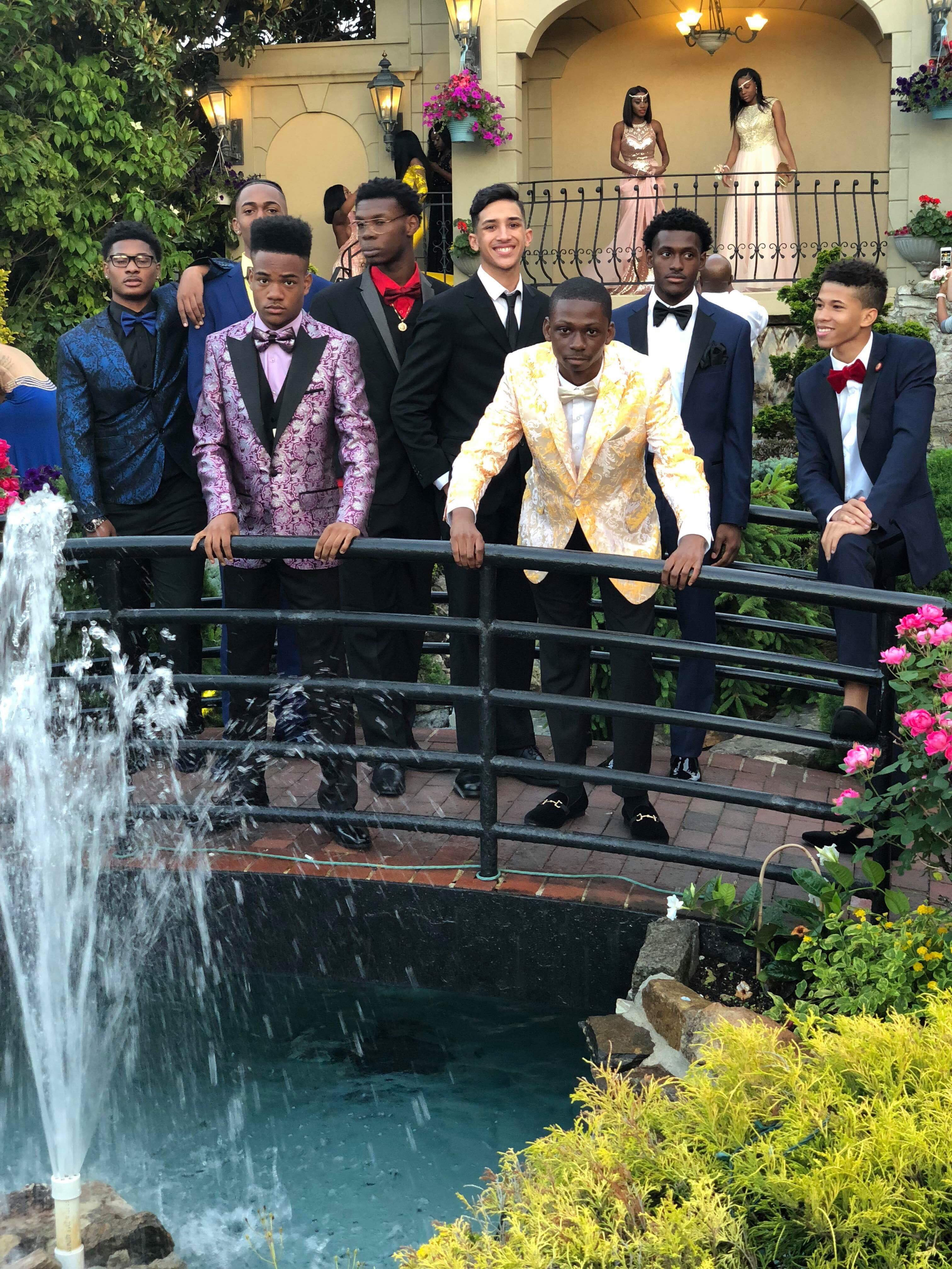
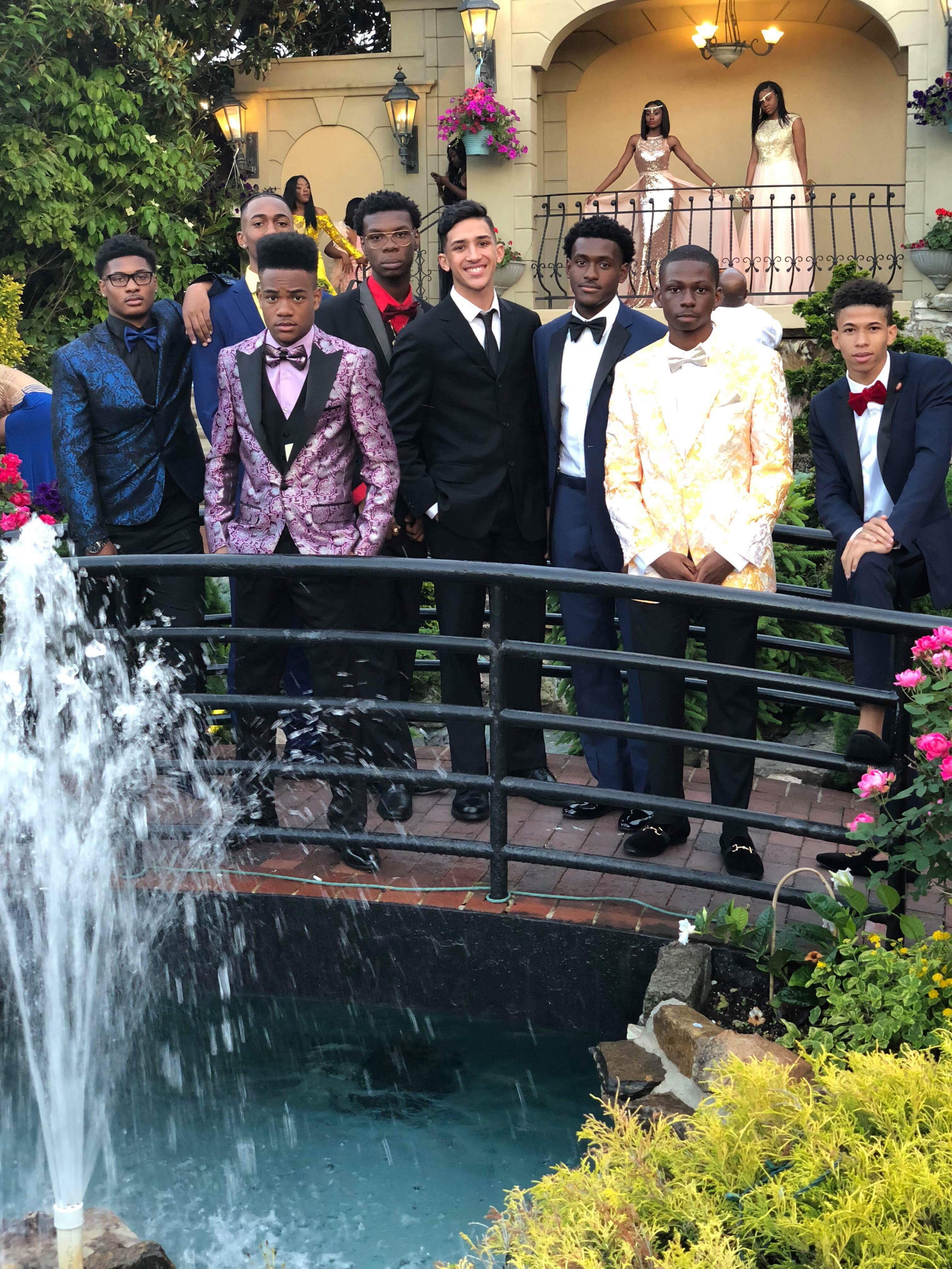
changed couples pages to pairs page, added second page to pairs page

diff --git a/pairs.html b/pairs.html
@@ -33,11 +33,11 @@
         <div class="nav-wrapper blue lighten-1">
             <a href="index.html" class="brand-logo center">Prom 2018</a>
             <ul id="nav-mobile" class="left">
-                <li class="active"><a href="groups.html">Groups</a></li>
+                <li><a href="groups.html">Groups</a></li>
             </ul>
 
             <ul id="nav-mobile" class="right">
-                <li><a href="pairs.html">Pairs</a></li>
+                <li class="active"><a href="pairs.html">Pairs</a></li>
             </ul>
         </div>
     </nav>
@@ -46,35 +46,40 @@
         <div class="container">
 
             <div class="row">
-                <div class="col s12 l6 image">
-                    <img class="materialboxed responsive-img z-depth-5" width="600" src="groups/group1.jpg">
-                </div>
 
                 <div class="col s12 l6">
-                    <img class="materialboxed responsive-img z-depth-5" width="600" src="groups/group2.jpg">
+                    <img class="materialboxed responsive-img z-depth-5" data-caption="Kadeem and Sajea" width="600" src="pairs/sasakadeem2.jpg">
+                </div>
+                <div class="col s12 l6">
+                    <img class="materialboxed responsive-img z-depth-5" data-caption="Rasheen and Richard" width="600" src="pairs/rasheenrichard.jpg">
+                </div>
+
+
+
+
+            </div>
+
+            <div class="section">
+                <div class="row">
+                    <div class="col s12 l6">
+                        <img class="materialboxed responsive-img z-depth-5" data-caption="Danasia and Rasheen" width="600" src="pairs/rasheendanasia.jpg">
+                    </div>
+                    
+                    <div class="col s12 l6">
+                        <img class="materialboxed responsive-img z-depth-5" data-caption="Sajea and Kadeem" width="600" src="pairs/sasakadeem.jpg">
+                    </div>
+
                 </div>
             </div>
 
             <div class="section">
                 <div class="row">
                     <div class="col s12 l6">
-                        <img class="materialboxed responsive-img z-depth-5" width="600" src="groups/group3.jpg">
+                        <img class="materialboxed responsive-img z-depth-5" data-caption="Rachael and Rasheen" width="600" src="pairs/rasheenrachael.jpg">
                     </div>
 
                     <div class="col s12 l6">
-                        <img class="materialboxed responsive-img z-depth-5" width="600" src="groups/group4.jpg">
-                    </div>
-                </div>
-            </div>
-
-            <div class="section">
-                <div class="row">
-                    <div class="col s12 l6">
-                        <img class="materialboxed responsive-img z-depth-5" width="600" src="groups/group5.jpg">
-                    </div>
-
-                    <div class="col s12 l6">
-                        <img class="materialboxed responsive-img z-depth-5" width="600" src="groups/group6.jpg">
+                        <img class="materialboxed responsive-img z-depth-5" data-caption="Tiara and Danasia" width="600" src="pairs/tiaradanasia.jpg">
                     </div>
                 </div>
             </div>
@@ -82,7 +87,7 @@
             <ul class="pagination center-align">
                 <li class="disabled"><a href="#!"><i class="material-icons">chevron_left</i></a></li>
                 <li class="active blue lighten-1"><a href="#!">1</a></li>
-                <li class="waves-effect"><a href="groupspage2.html">2</a></li>
+                <li class="waves-effect"><a href="pairspage2.html">2</a></li>
                 <li class="waves-effect"><a href="#!">3</a></li>
                 <li class="waves-effect"><a href="#!">4</a></li>
                 <li class="waves-effect"><a href="#!">5</a></li>

diff --git a/pairspage2.html b/pairspage2.html
@@ -37,7 +37,7 @@
             </ul>
 
             <ul id="nav-mobile" class="right">
-                <li class="active"><a href="couples.html">Couples</a></li>
+                <li class="active"><a href="pairs.html">Pairs</a></li>
             </ul>
         </div>
     </nav>
@@ -46,43 +46,48 @@
         <div class="container">
 
             <div class="row">
-                <div class="col s12 l6 image">
-                    <img class="materialboxed responsive-img z-depth-5" data-caption="Sajea and Kadeem" width="600" src="couples/sasakadeem.jpg">
-                </div>
 
                 <div class="col s12 l6">
-                    <img class="materialboxed responsive-img z-depth-5" data-caption="Sajea and Kadeem" width="600" src="couples/sasakadeem2.jpg">
+                    <img class="materialboxed responsive-img z-depth-5" data-caption="Rasheen and Tiara" width="600" src="pairs/rasheentiara.jpg">
+                </div>
+                <div class="col s12 l6">
+                    <img class="materialboxed responsive-img z-depth-5" data-caption="" width="600" src="pairs/.jpg">
+                </div>
+
+
+
+
+            </div>
+
+            <div class="section">
+                <div class="row">
+                    <div class="col s12 l6">
+                        <img class="materialboxed responsive-img z-depth-5" data-caption="" width="600" src="pairs/.jpg">
+                    </div>
+                    
+                    <div class="col s12 l6">
+                        <img class="materialboxed responsive-img z-depth-5" data-caption="" width="600" src="pairs/.jpg">
+                    </div>
+
                 </div>
             </div>
 
             <div class="section">
                 <div class="row">
                     <div class="col s12 l6">
-                        <img class="materialboxed responsive-img z-depth-5" data-caption="Imani Greenidge" width="600" src="">
+                        <img class="materialboxed responsive-img z-depth-5" data-caption="" width="600" src="pairs/.jpg">
                     </div>
 
                     <div class="col s12 l6">
-                        <img class="materialboxed responsive-img z-depth-5" data-caption="Imani Greenidge" width="600" src=".jpg">
-                    </div>
-                </div>
-            </div>
-
-            <div class="section">
-                <div class="row">
-                    <div class="col s12 l6">
-                        <img class="materialboxed responsive-img z-depth-5" data-caption="Imani Greenidge" width="600" src="">
-                    </div>
-
-                    <div class="col s12 l6">
-                        <img class="materialboxed responsive-img z-depth-5" data-caption="Imani Greenidge" width="600" src=".jpg">
+                        <img class="materialboxed responsive-img z-depth-5" data-caption="" width="600" src="pairs/.jpg">
                     </div>
                 </div>
             </div>
 
             <ul class="pagination center-align">
                 <li class="disabled"><a href="#!"><i class="material-icons">chevron_left</i></a></li>
-                <li class="active blue lighten-1"><a href="#!">1</a></li>
-                <li class="waves-effect"><a href="#!">2</a></li>
+                <li class="waves-effect"><a href="pairs.html">1</a></li>
+                <li class="active blue lighten-1"><a href="pairspage2.html">2</a></li>
                 <li class="waves-effect"><a href="#!">3</a></li>
                 <li class="waves-effect"><a href="#!">4</a></li>
                 <li class="waves-effect"><a href="#!">5</a></li>

diff --git a/page2.html b/page2.html
@@ -37,7 +37,7 @@
             </ul>
 
             <ul id="nav-mobile" class="right">
-                <li><a href="couples.html">Couples</a></li>
+                <li><a href="pairs.html">Pairs</a></li>
             </ul>
         </div>
     </nav>
@@ -58,7 +58,7 @@
             <div class="section">
                 <div class="row">
                     <div class="col s12 l6">
-                        <img class="materialboxed responsive-img z-depth-5" data-caption="" width="600" src=".jpg">
+                        <img class="materialboxed responsive-img z-depth-5" data-caption="Tiara Smith" width="600" src="images/tiara.jpg">
                     </div>
 
                     <div class="col s12 l6">

diff --git a/groupspage2.html b/groupspage2.html
@@ -37,7 +37,7 @@
             </ul>
 
             <ul id="nav-mobile" class="right">
-                <li><a href="couples.html">Couples</a></li>
+                <li><a href="pairs.html">Pairs</a></li>
             </ul>
         </div>
     </nav>

diff --git a/index.html b/index.html
@@ -37,7 +37,7 @@
             </ul>
 
             <ul id="nav-mobile" class="right">
-                <li><a href="couples.html">Couples</a></li>
+                <li><a href="pairs.html">Pairs</a></li>
             </ul>
         </div>
     </nav>
